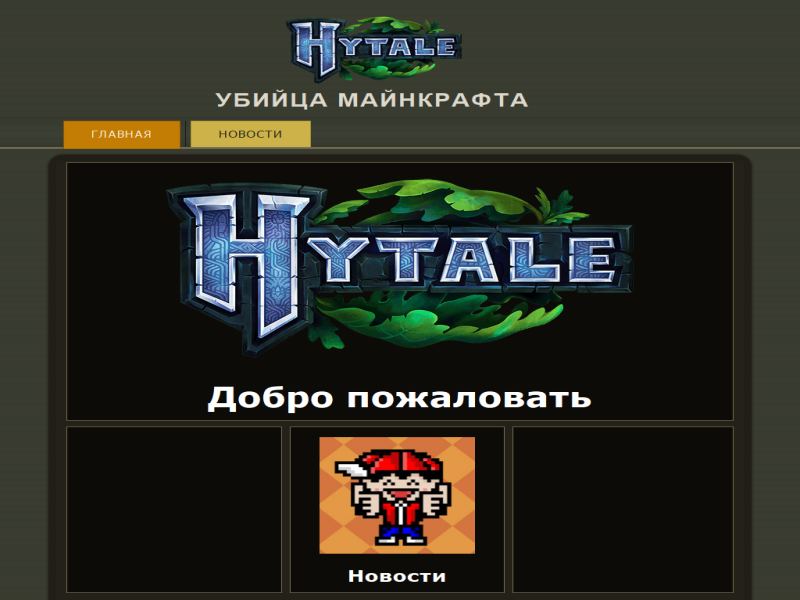
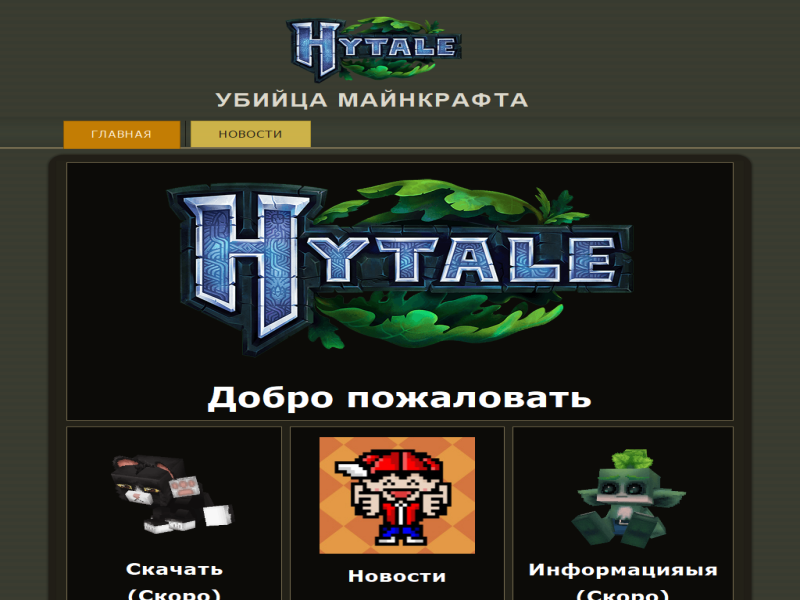
Обновление

Changed region(s): [[0.6562, 0.75, 0.9062, 1.0], [0.125, 0.75, 0.3125, 0.9], [0.1562, 0.93, 0.2812, 1.0]]

diff --git a/index.html b/index.html
@@ -67,11 +67,11 @@
 <div class="art-content-layout layout-item-1">
     <div class="art-content-layout-row">
     <div class="art-layout-cell layout-item-2" style="width: 33%" >
-        <p><br></p>
+        <p style="text-align: center;"><img width="230" height="199" alt="" class="art-lightbox" src="images/5c116cf1a8abd90012df93f2_fungif_3___cute_cat.gif"><span style="color: rgb(255, 255, 255); font-size: 28px; font-weight: bold;">Скачать</span></p><p style="text-align: center;"><span style="color: rgb(255, 255, 255); font-size: 28px; font-weight: bold;">(Скоро)</span></p>
     </div><div class="art-layout-cell layout-item-2" style="width: 33%" >
-        <p style="text-align: center;"><a href="news.html"><img width="199" height="199" alt="" src="images/unnamed.jpg"></a><br></p><p style="text-align: center;"><span style="font-size: 28px; color: rgb(255, 255, 255); font-weight: bold;">Новости</span></p>
+        <p style="text-align: center;"><a href="news.html"><img width="199" height="199" alt="" src="images/unnamed.jpg" class=""></a><br></p><p style="text-align: center;"><span style="font-size: 28px; color: rgb(255, 255, 255); font-weight: bold;">Новости</span></p>
     </div><div class="art-layout-cell layout-item-2" style="width: 34%" >
-        <p><br></p>
+        <p style="text-align: center;"><img width="200" height="200" alt="" class="art-lightbox" src="images/5c116cf4a8abd90012df93ff_fungif_2___kid_kweebec.gif"><span style="color: rgb(255, 255, 255); font-size: 28px; font-weight: bold;">Информацияыя</span><br></p><p style="text-align: center;"><span style="color: rgb(255, 255, 255); font-size: 28px; font-weight: bold;">(Скоро)</span></p>
     </div>
     </div>
 </div>
